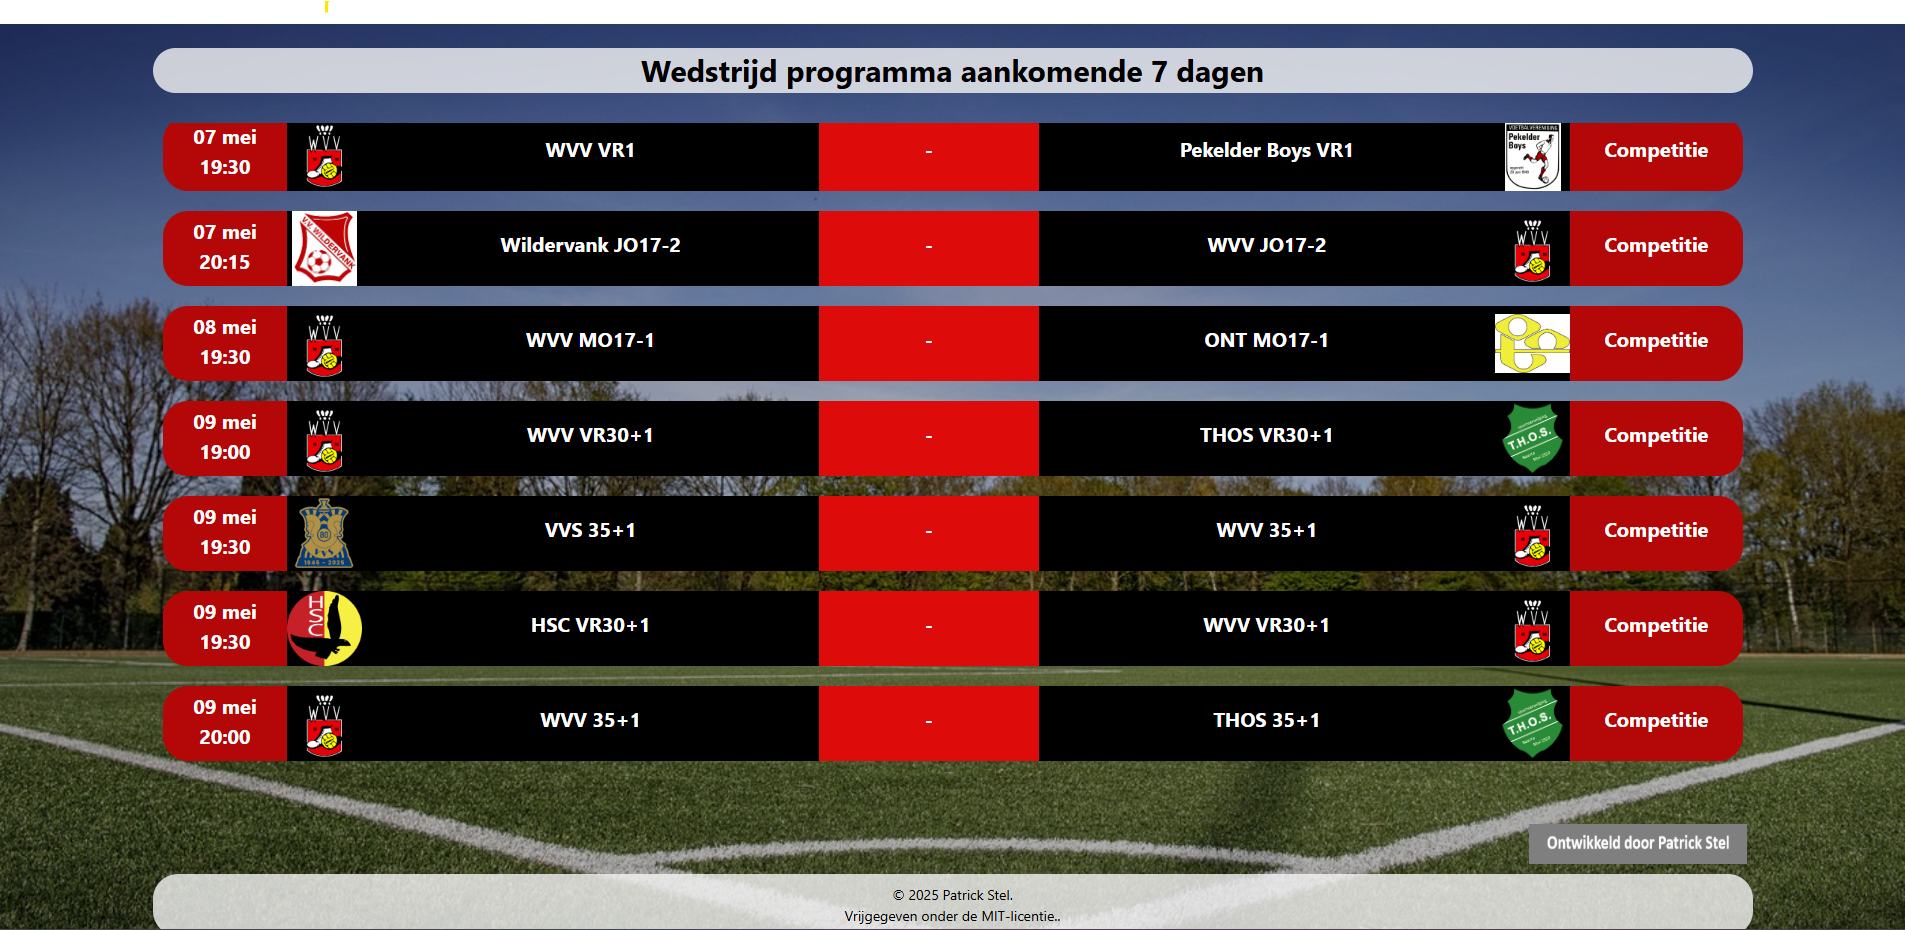
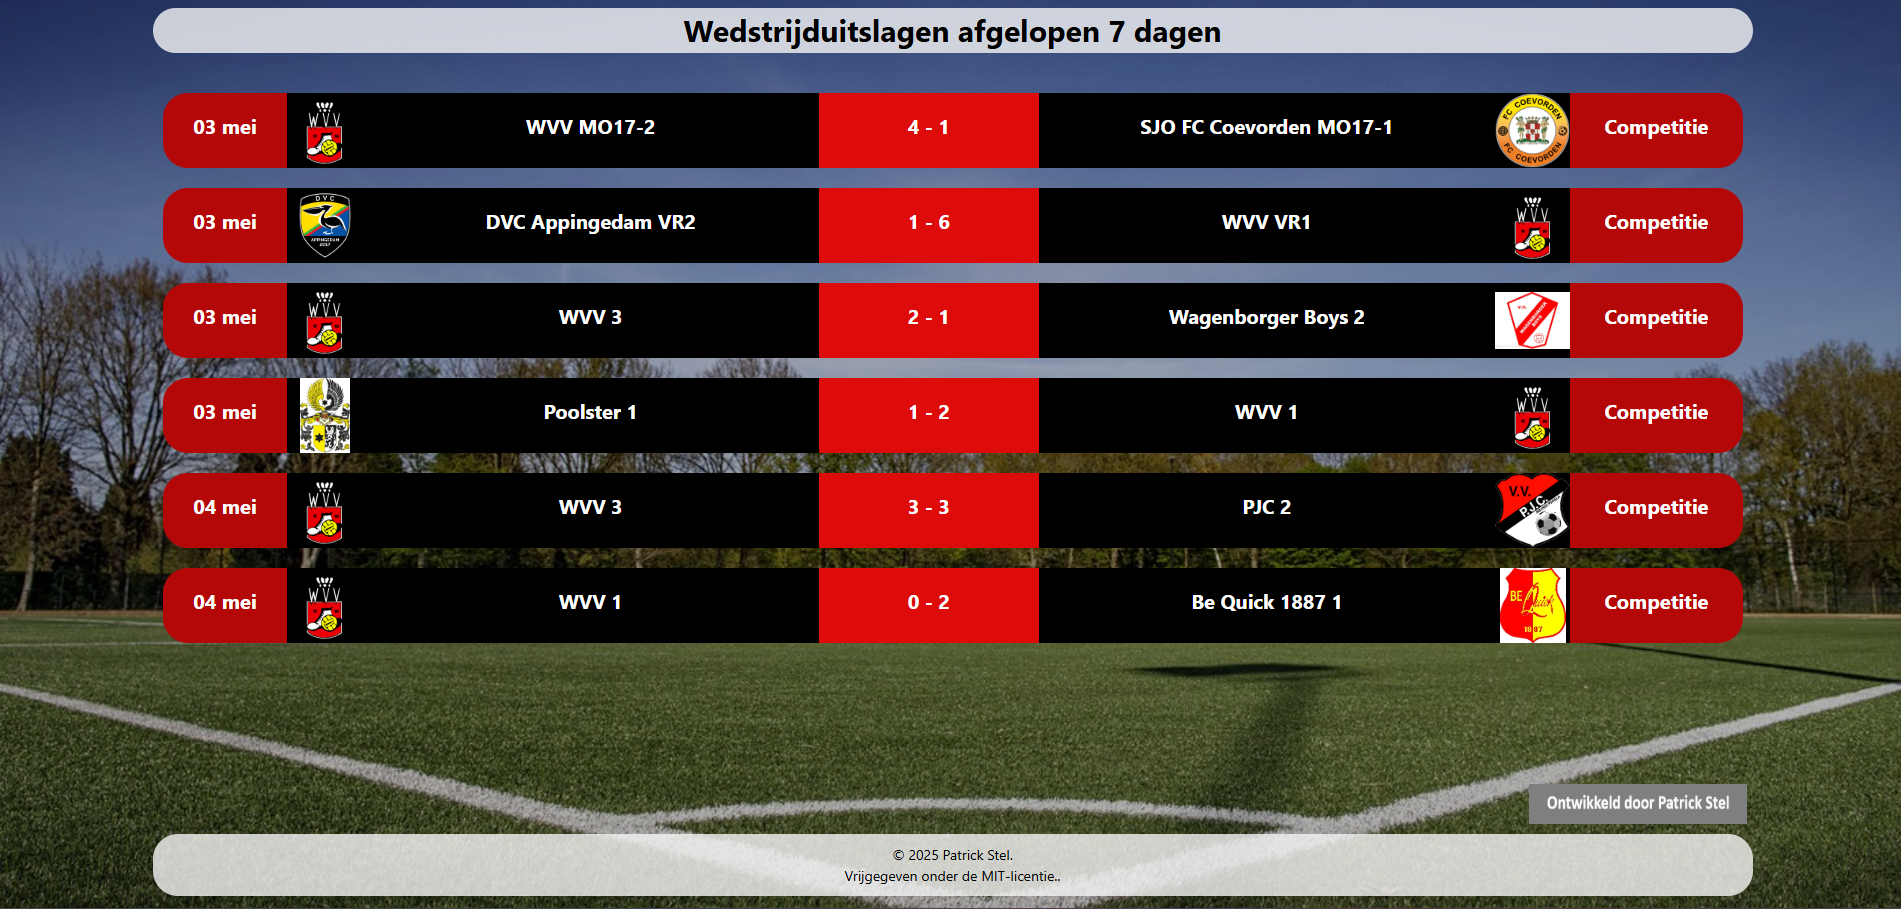
docs

diff --git a/docs/preview.md b/docs/preview.md
@@ -10,7 +10,8 @@ Gebruik dit als referentie bij het instellen van je eigen weergave via de [inste
 Hier configureer je onder andere sport, type verbinding, weergave-instellingen, styling en sponsors.
 
 ![Instellingen](./screenshots/instellingen.png)
-
+![Instellingen](./screenshots/searchClub.png)
+__Club zoeken via Sportlink Proxy__
 ---
 
 ## 🗓 Programmaweergave
@@ -33,6 +34,11 @@ Toont de recente wedstrijdresultaten van de vereniging.
 
 Toont informatie over de wedstrijden die binnenkort starten, inclusief kleedkamer- en veldindeling.  
 📷 *Afbeelding volgt binnenkort…*
+![Uitslagen](./screenshots/wedstrijdinfoFilled.png)
+Wedstrijd informatie beschikbaar
+
+![Uitslagen](./screenshots/wedstrijd-informatie.png)
+Wedstrijd informatie beschikbaar
 
 ---
 
